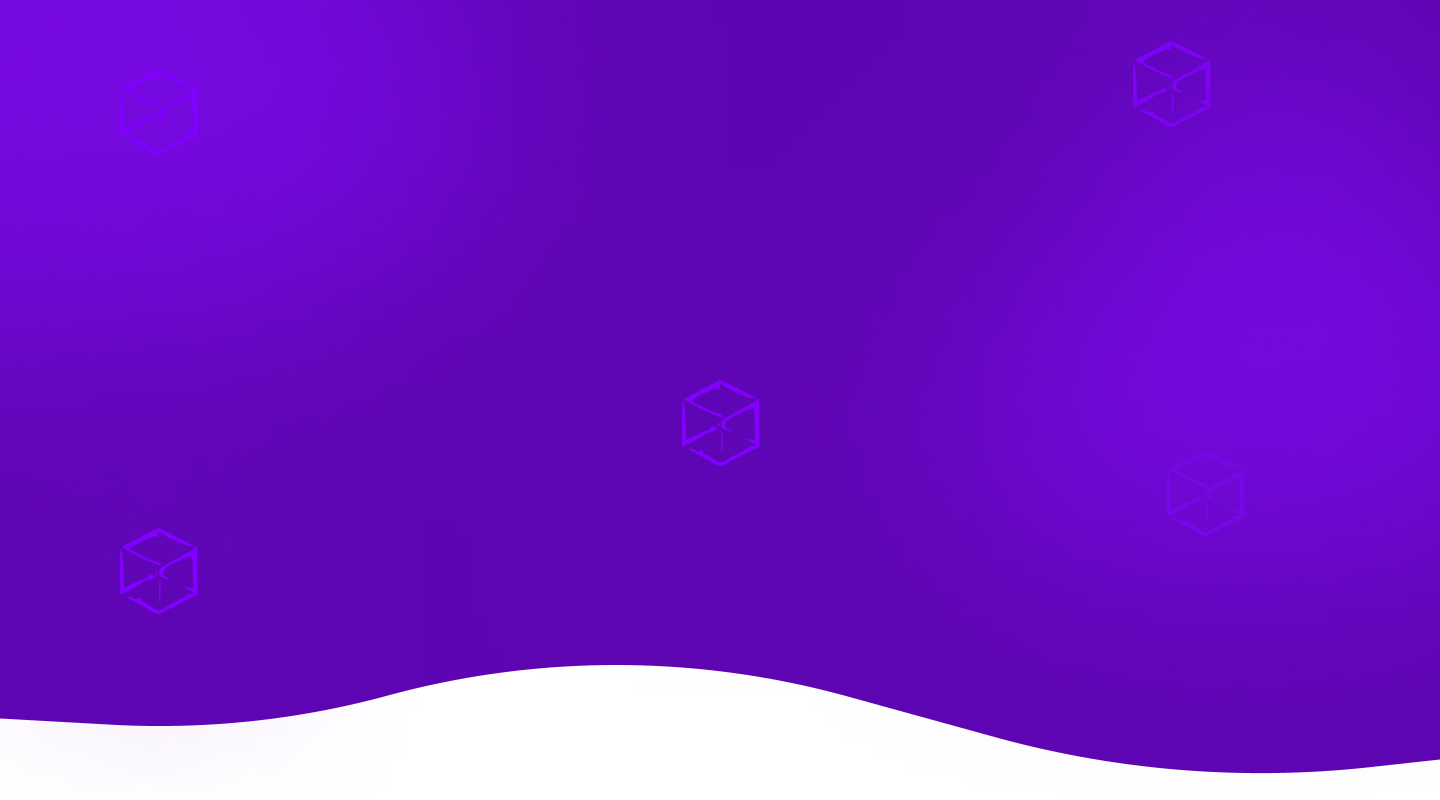
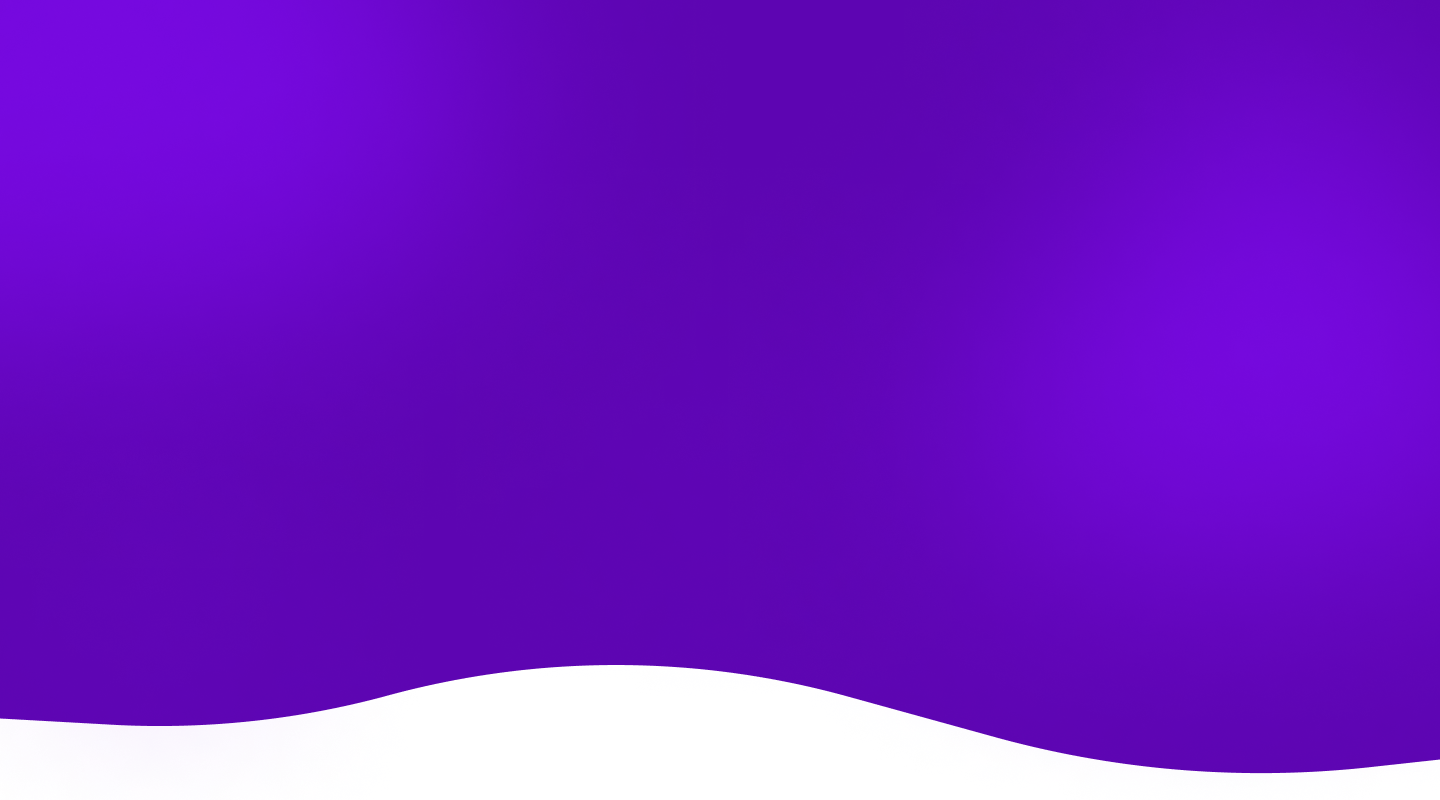
updated

diff --git a/src/components/Pages/Home/Banner.jsx b/src/components/Pages/Home/Banner.jsx
@@ -3,14 +3,40 @@
 import Image from "next/image";
 import banner from "@/assets/images/banner2.png";
 import bg from "@/assets/images/bg.png";
+import icon from "@/assets/images/Icon.png";
 
 const Banner = () => {
   return (
     <section className="relative -mb-20 lg:mb-16 xl:-mb-1 xxl:mb-0">
       <Image
         src={bg}
-        alt="wave"
-        className="w-full absolute -top-20 -z-10 h-full lg:h-[650px] xxl:h-[700px]"
+        alt="bg"
+        className="w-full absolute -top-20 -z-10 h-full lg:h-[650px] xxl:h-[700px] object-fill"
+      />
+      <Image
+        src={icon}
+        alt="icon"
+        className="absolute top-20 left-20 -z-10 hidden lg:block"
+      />
+      <Image
+        src={icon}
+        alt="icon"
+        className="absolute top-[40%] lg:top-10 left-[10%] lg:left-[80%] -z-10"
+      />
+      <Image
+        src={icon}
+        alt="icon"
+        className="absolute top-52 lg:top-[65%] right-[15%] -z-10"
+      />
+      <Image
+        src={icon}
+        alt="icon"
+        className="absolute bottom-32 left-44 -z-10 hidden lg:block"
+      />
+      <Image
+        src={icon}
+        alt="icon"
+        className="absolute top-[4%] left-[45%] -z-10"
       />
       <div className="flex flex-col lg:flex-row lg:gap-10 justify-center items-center text-white my-container text-center lg:text-start pb-32 pt-10 lg:pt-0 xl:-mt-5">
         <div className="lg:mt-28 xxl:mt-0">

diff --git a/src/components/Pages/Home/Demo.jsx b/src/components/Pages/Home/Demo.jsx
@@ -21,15 +21,15 @@ const Demo = () => {
             href={item?.url ?? "/"}
             target="_blank"
             key={item?.id}
-            className="group lg:w-[350px] h-auto hover:shadow rounded-xl hover:-translate-y-2 duration-500 mx-auto"
+            className="group lg:w-[350px] h-auto shadow hover:shadow-lg rounded-xl hover:-translate-y-2 duration-500 mx-auto border"
           >
-            <div className="rounded-xl overflow-hidden w-full">
+            <div className="rounded-t-xl overflow-hidden w-full">
               <Image
                 src={item?.image}
                 alt={item?.title}
                 width={350}
                 height={300}
-                className="object-cover w-full h-[250px]"
+                className="object-cover w-full h-[250px] border-b"
               />
             </div>
             <div className="mt-3 px-2 pb-4 flex items-center justify-between">

diff --git a/src/components/Pages/Home/CTA.jsx b/src/components/Pages/Home/CTA.jsx
@@ -2,7 +2,7 @@ const CTA = () => {
   return (
     <section
       style={{ backgroundImage: `url('/cta.png')` }}
-      className="bg-cover bg-no-repeat bg-center my-container text-white my-10 lg:my-20 p-20 lg:p-44 rounded-xl"
+      className="bg-cover bg-no-repeat bg-center my-container text-white my-10 lg:my-20 p-20 lg:p-44 rounded-xl relative"
     >
       <div className="flex flex-col lg:flex-row justify-between items-center gap-10 text-center lg:text-start">
         <h2 className="text-3xl lg:text-5xl font-bold">
